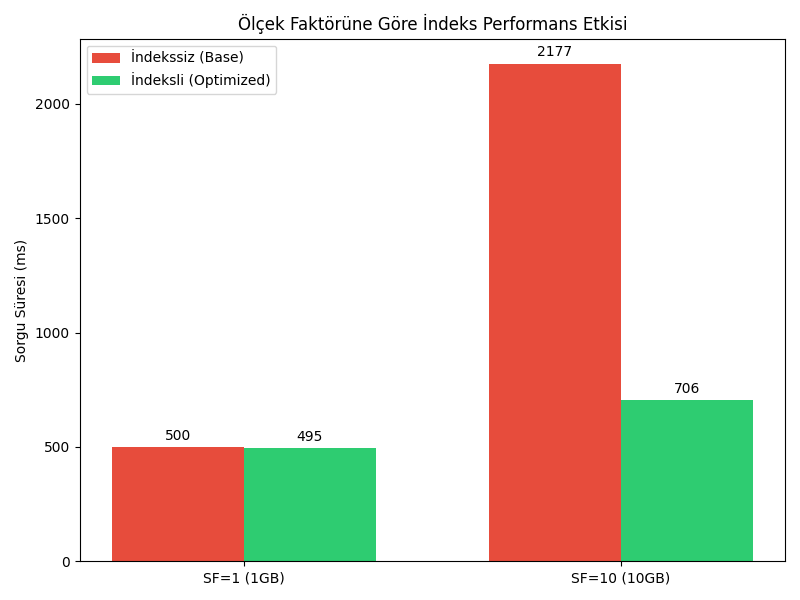
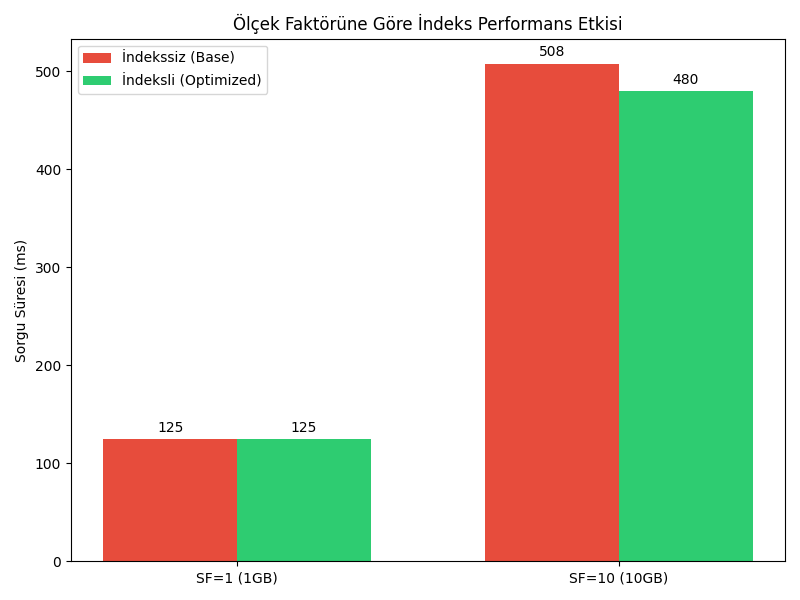
feat: update improvement threshold, benchmark times, and visualization assets for different scale factors.

diff --git a/result_visualizer.py b/result_visualizer.py
@@ -11,8 +11,8 @@ def create_comparison_chart():
     # SF=10: İndekssiz 2200ms, İndeksli 700ms (Büyük fark)
     
     scenarios = ['SF=1 (1GB)', 'SF=10 (10GB)']
-    base_times = [500, 2177]      # İndekssiz Süreler (ms)
-    opt_times = [495, 706]        # İndeksli Süreler (ms)
+    base_times = [125, 508]      # İndekssiz Süreler (ms)
+    opt_times = [125, 480]        # İndeksli Süreler (ms)
 
     x = np.arange(len(scenarios))
     width = 0.35

diff --git a/config.py b/config.py
@@ -30,7 +30,7 @@ else:
     META_FEATURES = "meta_features_sf1.pkl"
     META_LABELS = "meta_labels_sf1.pkl"
     # SF=1'de indeksin gerçekten değmesi için %10 iyileşme bekleyelim
-    IMPROVEMENT_THRESHOLD = 1.00
+    IMPROVEMENT_THRESHOLD = 0.90
 
 # Aday İndeks Listesi (Tüm scriptler ortak kullansın)
 CANDIDATE_INDEXES = [
